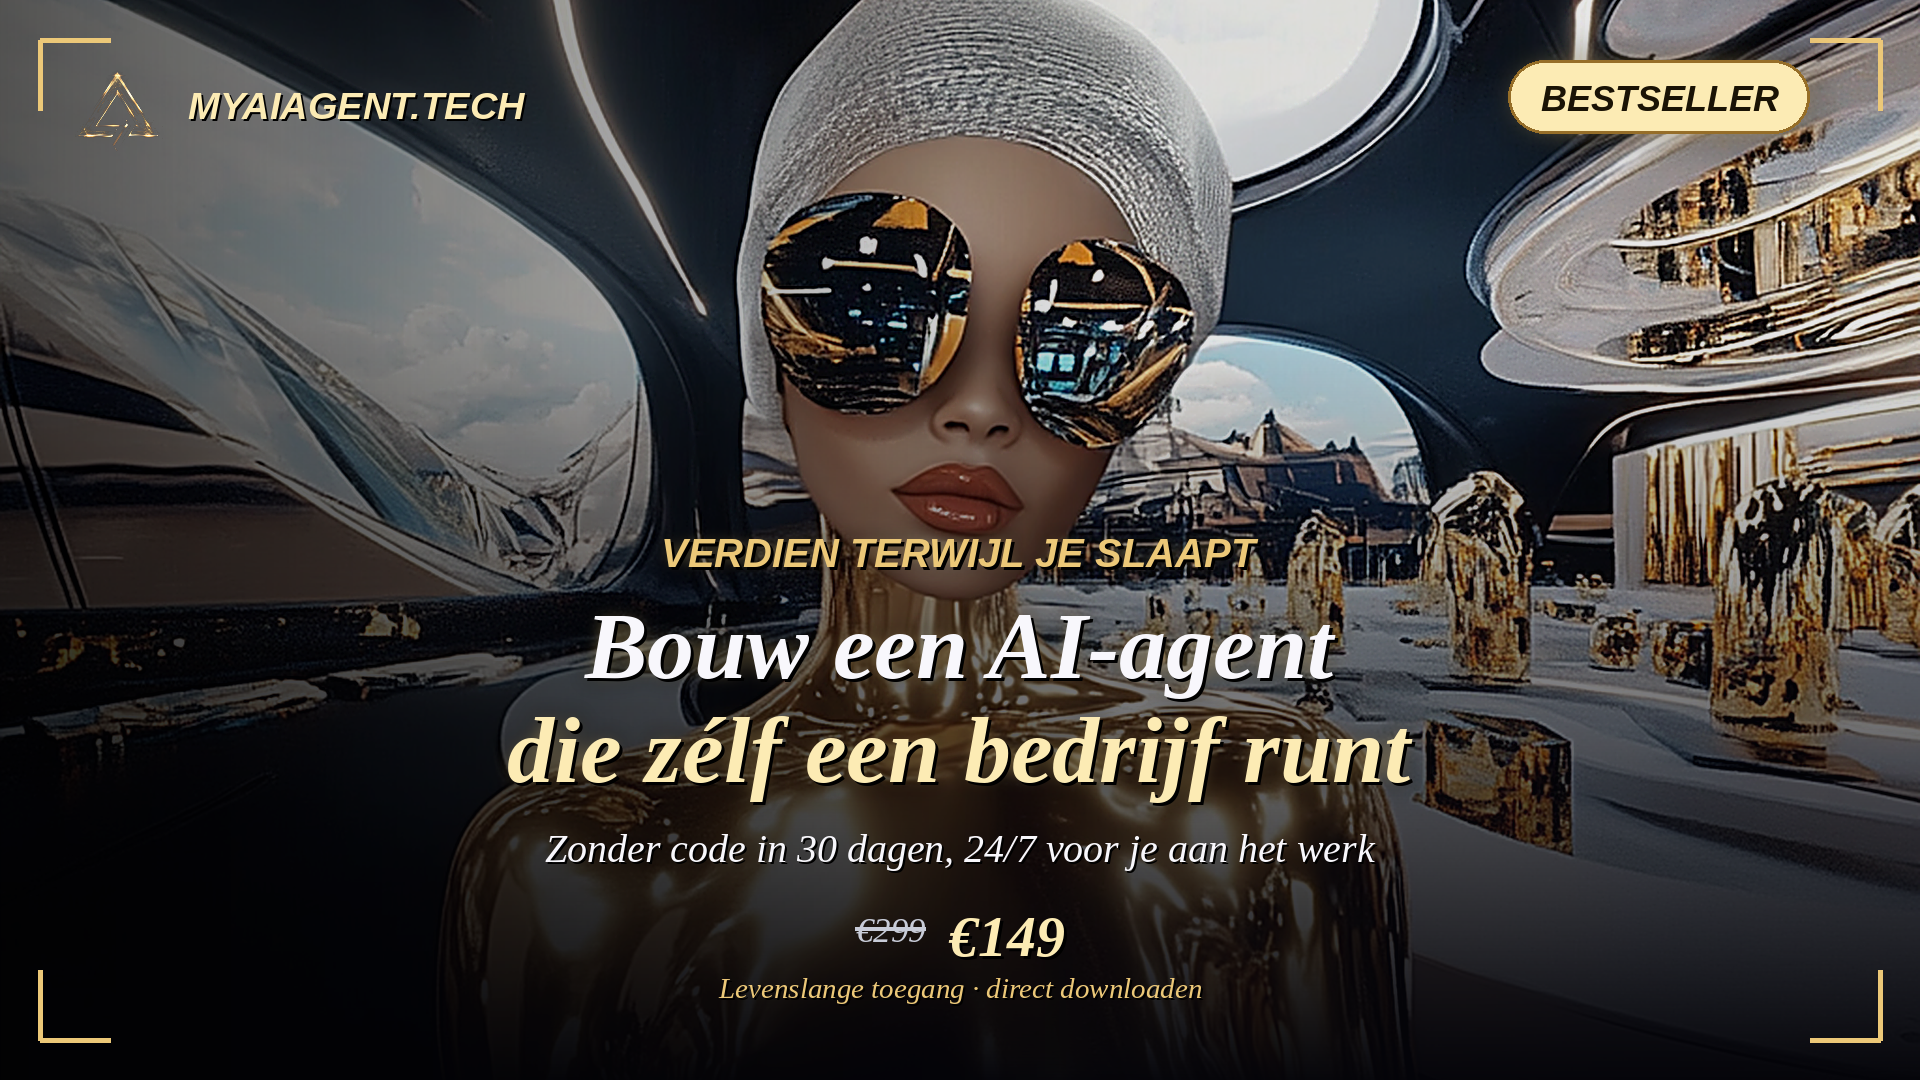
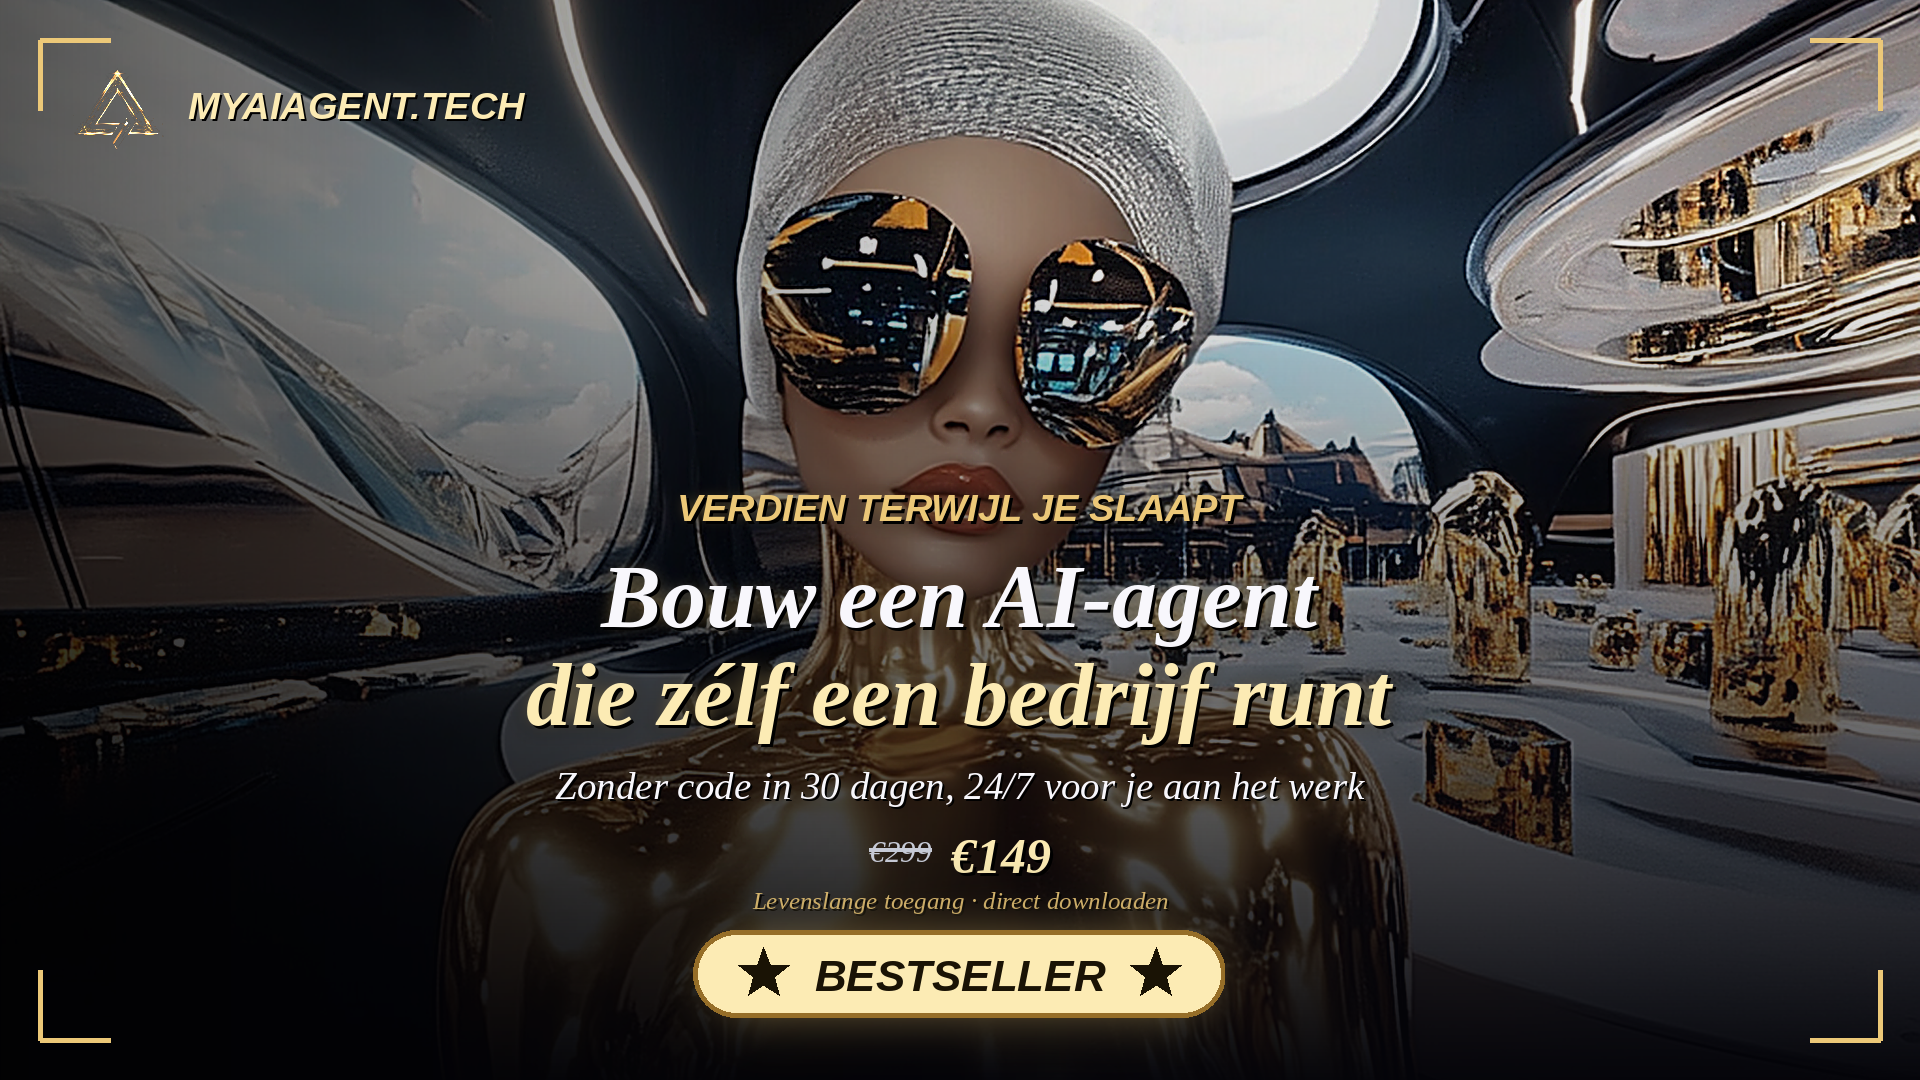
Add EN cover/thumbnail and move BESTSELLER to a bold bottom bar
Generate Dutch and English listing images; replace the top badge with a
prominent gold BESTSELLER bar (flanking stars + glow) placed under all
text on both cover and thumbnail.

https://claude.ai/code/session_01X8zdoAxXmr4GMSK1XA2L1h

Changed region(s): [[0.25, 0.4583, 0.75, 0.9778], [0.7812, 0.0306, 0.9688, 0.1528], [0.0312, 0.0917, 0.0938, 0.1222]]

diff --git a/generate_listing.py b/generate_listing.py
@@ -1,7 +1,7 @@
 #!/usr/bin/env python3
-"""Gumroad cover + thumbnail in high resolution: sharp imagery, crisp text,
-a BESTSELLER badge and emotional, aspirational copy."""
-import os
+"""Gumroad cover + thumbnail, NL and EN. Hi-res, sharp, chic slanted serif,
+emotional viral copy, and a prominent BESTSELLER bar at the bottom (under all text)."""
+import os, math
 from PIL import Image, ImageDraw, ImageFont, ImageFilter
 
 HERE = os.path.dirname(os.path.abspath(__file__))
@@ -11,17 +11,26 @@ FIGURE = UP + "0c0fdae0-mimi20228075__de2a41f026ab4e928aae17021a642fe7.png"
 LOGO = UP + "ad91d89d-My_AI_Agent_Dubai.png"
 FONTS = "/usr/share/fonts/truetype/liberation/"
 def font(n, s): return ImageFont.truetype(FONTS + n, s)
-BOLD, REG = "LiberationSerif-BoldItalic.ttf", "LiberationSerif-Italic.ttf"  # chic, slanted, legible
+BOLD, REG = "LiberationSerif-BoldItalic.ttf", "LiberationSerif-Italic.ttf"
 SANS_BI = "LiberationSans-BoldItalic.ttf"
 GOLD, GOLD_BR, WHITE, DIM, INK = (236, 200, 120), (252, 235, 180), (248, 247, 252), (200, 204, 216), (26, 19, 5)
 
+TXT = {
+    "nl": {"eyebrow": "VERDIEN TERWIJL JE SLAAPT", "t1": "Bouw een AI-agent", "t2": "die zélf een bedrijf runt",
+           "sub": "Zonder code in 30 dagen, 24/7 voor je aan het werk", "psub": "Levenslange toegang · direct downloaden",
+           "thumb": "AI-AGENT CURSUS", "thumb_sub": "Verdien terwijl je slaapt, zonder code",
+           "cover": "gumroad-cover.png", "tb": "gumroad-thumbnail.png"},
+    "en": {"eyebrow": "EARN WHILE YOU SLEEP", "t1": "Build an AI agent", "t2": "that runs a business itself",
+           "sub": "No code, in 30 days, working for you 24/7", "psub": "Lifetime access · instant download",
+           "thumb": "AI-AGENT COURSE", "thumb_sub": "Earn while you sleep, no code",
+           "cover": "gumroad-cover-en.png", "tb": "gumroad-thumbnail-en.png"},
+}
+
 def cover_crop(im, w, h, sharpen=120):
     iw, ih = im.size; s = max(w / iw, h / ih)
-    im = im.resize((round(iw * s), round(ih * s)), Image.LANCZOS)
-    iw, ih = im.size
+    im = im.resize((round(iw * s), round(ih * s)), Image.LANCZOS); iw, ih = im.size
     im = im.crop(((iw - w) // 2, (ih - h) // 2, (iw - w) // 2 + w, (ih - h) // 2 + h))
-    if sharpen: im = im.filter(ImageFilter.UnsharpMask(radius=2.4, percent=sharpen, threshold=2))
-    return im
+    return im.filter(ImageFilter.UnsharpMask(radius=2.4, percent=sharpen, threshold=2)) if sharpen else im
 
 def vgrad(w, h, top_a, bot_a, start=0.0):
     g = Image.new("L", (1, h), 0); px = g.load()
@@ -30,55 +39,8 @@ def vgrad(w, h, top_a, bot_a, start=0.0):
         px[0, y] = int(top_a + (bot_a - top_a) * f)
     blk = Image.new("RGBA", (w, h), (4, 4, 9, 255)); blk.putalpha(g.resize((w, h))); return blk
 
-def text(c, cx, y, s, fnt, fill, center=True, glow=0, left=None, shadow=3):
-    d = ImageDraw.Draw(c); bb = d.textbbox((0, 0), s, font=fnt); tw = bb[2] - bb[0]
-    x = (cx - tw / 2 - bb[0]) if center else left
-    if glow:
-        gl = Image.new("RGBA", c.size, (0, 0, 0, 0))
-        ImageDraw.Draw(gl).text((x, y), s, font=fnt, fill=(236, 200, 120, 220))
-        c.alpha_composite(gl.filter(ImageFilter.GaussianBlur(glow)))
-    if shadow: d.text((x + shadow, y + shadow), s, font=fnt, fill=(0, 0, 0, 170))
-    d.text((x, y), s, font=fnt, fill=fill)
-    return tw
-
-def corners(c, pad, ln, w=4):
-    d = ImageDraw.Draw(c); W, H = c.size; col = (236, 200, 120, 210)
-    for x, y, dx, dy in [(pad, pad, 1, 0), (pad, pad, 0, 1), (W - pad, pad, -1, 0), (W - pad, pad, 0, 1),
-                          (pad, H - pad, 1, 0), (pad, H - pad, 0, -1), (W - pad, H - pad, -1, 0), (W - pad, H - pad, 0, -1)]:
-        d.line([(x, y), (x + dx * ln, y + dy * ln)], fill=col, width=w)
-
-def badge(c, cx, cy, label, fs):
-    d = ImageDraw.Draw(c); f = font(SANS_BI, fs)
-    tw = d.textlength(label, font=f); padx, pady = int(fs * .9), int(fs * .55)
-    w, h = tw + 2 * padx, fs + 2 * pady; x0, y0 = cx - w / 2, cy
-    glow = Image.new("RGBA", c.size, (0, 0, 0, 0))
-    ImageDraw.Draw(glow).rounded_rectangle([x0, y0, x0 + w, y0 + h], radius=h / 2, fill=(236, 200, 120, 150))
-    c.alpha_composite(glow.filter(ImageFilter.GaussianBlur(fs * .5)))
-    grad = Image.new("L", (1, int(h)), 0)
-    for i in range(int(h)): grad.load()[0, i] = int(255 - 70 * (i / h))
-    pill = Image.new("RGBA", (int(w), int(h)), (0, 0, 0, 0))
-    base = Image.new("RGBA", (int(w), int(h)), GOLD_BR + (255,))
-    base.putalpha(grad.resize((int(w), int(h))).point(lambda p: 255))
-    tint = Image.new("RGBA", (int(w), int(h)), (0, 0, 0, 0))
-    ImageDraw.Draw(tint).rounded_rectangle([0, 0, w - 1, h - 1], radius=h / 2, fill=GOLD_BR + (255,), outline=(150, 110, 40, 255), width=3)
-    mask = Image.new("L", (int(w), int(h)), 0)
-    ImageDraw.Draw(mask).rounded_rectangle([0, 0, w - 1, h - 1], radius=h / 2, fill=255)
-    c.paste(tint, (int(x0), int(y0)), mask)
-    d.text((cx - tw / 2, y0 + pady - 1), label, font=f, fill=INK)
-
-def price(c, cx, y, big):
-    d = ImageDraw.Draw(c); fo, fn, fs = font(REG, int(big * .62)), font(BOLD, big), font(REG, int(big * .5))
-    old, new = "€299", "€149"
-    wo, wn = d.textlength(old, font=fo), d.textlength(new, font=fn); gap = int(big * .4); x = cx - (wo + gap + wn) / 2
-    d.text((x, y + int(big * .12)), old, font=fo, fill=DIM)
-    d.line([(x, y + int(big * .42)), (x + wo, y + int(big * .42))], fill=DIM, width=4)
-    d.text((x + wo + gap + 3, y + 3), new, font=fn, fill=(0, 0, 0, 160))
-    d.text((x + wo + gap, y), new, font=fn, fill=GOLD_BR)
-    text(c, cx, y + big + 10, "Levenslange toegang · direct downloaden", fs, GOLD, shadow=2)
-
 def base_bg(w, h):
-    top, bot = (16, 15, 24), (5, 5, 10)
-    g = Image.new("RGB", (1, h)); px = g.load()
+    top, bot = (16, 15, 24), (5, 5, 10); g = Image.new("RGB", (1, h)); px = g.load()
     for y in range(h):
         f = y / h; px[0, y] = tuple(int(top[i] * (1 - f) + bot[i] * f) for i in range(3))
     return g.resize((w, h)).convert("RGBA")
@@ -89,39 +51,84 @@ def logo_masked(size):
     m = lg.convert("L").point(lambda p: 0 if p < 36 else min(255, int((p - 36) * 1.7)))
     return lg, m
 
-def make_cover():
-    W, H = 1920, 1080
+def text(c, cx, y, s, fnt, fill, center=True, glow=0, left=None, shadow=3):
+    d = ImageDraw.Draw(c); bb = d.textbbox((0, 0), s, font=fnt); tw = bb[2] - bb[0]
+    x = (cx - tw / 2 - bb[0]) if center else left
+    if glow:
+        gl = Image.new("RGBA", c.size, (0, 0, 0, 0)); ImageDraw.Draw(gl).text((x, y), s, font=fnt, fill=(236, 200, 120, 220))
+        c.alpha_composite(gl.filter(ImageFilter.GaussianBlur(glow)))
+    if shadow: d.text((x + shadow, y + shadow), s, font=fnt, fill=(0, 0, 0, 170))
+    d.text((x, y), s, font=fnt, fill=fill); return tw
+
+def corners(c, pad, ln, w=4):
+    d = ImageDraw.Draw(c); W, H = c.size; col = (236, 200, 120, 210)
+    for x, y, dx, dy in [(pad, pad, 1, 0), (pad, pad, 0, 1), (W - pad, pad, -1, 0), (W - pad, pad, 0, 1),
+                          (pad, H - pad, 1, 0), (pad, H - pad, 0, -1), (W - pad, H - pad, -1, 0), (W - pad, H - pad, 0, -1)]:
+        d.line([(x, y), (x + dx * ln, y + dy * ln)], fill=col, width=w)
+
+def star(d, cx, cy, r, fill):
+    pts = []
+    for i in range(10):
+        rad = r if i % 2 == 0 else r * 0.42; a = -math.pi / 2 + i * math.pi / 5
+        pts.append((cx + rad * math.cos(a), cy + rad * math.sin(a)))
+    d.polygon(pts, fill=fill)
+
+def bestseller(c, cx, top, fs):
+    """A prominent gold BESTSELLER bar with flanking stars + glow."""
+    d = ImageDraw.Draw(c); f = font(SANS_BI, fs); label = "BESTSELLER"
+    tw = d.textlength(label, font=f); sr = fs * 0.6; gap = fs * 0.55; padx = fs * 1.0; pady = fs * 0.5
+    inner = sr * 2 + gap + tw + gap + sr * 2; w = inner + 2 * padx; h = fs + 2 * pady; x0 = cx - w / 2; y0 = top
+    glow = Image.new("RGBA", c.size, (0, 0, 0, 0))
+    ImageDraw.Draw(glow).rounded_rectangle([x0, y0, x0 + w, y0 + h], radius=h / 2, fill=(236, 200, 120, 200))
+    c.alpha_composite(glow.filter(ImageFilter.GaussianBlur(fs * 0.8)))
+    mask = Image.new("L", (int(w), int(h)), 0); ImageDraw.Draw(mask).rounded_rectangle([0, 0, w - 1, h - 1], radius=h / 2, fill=255)
+    tint = Image.new("RGBA", (int(w), int(h)), GOLD_BR + (255,))
+    ImageDraw.Draw(tint).rounded_rectangle([0, 0, w - 1, h - 1], radius=h / 2, outline=(150, 110, 40, 255), width=5)
+    c.paste(tint, (int(x0), int(y0)), mask)
+    cy = y0 + h / 2
+    d.text((cx - tw / 2, y0 + pady - 1), label, font=f, fill=INK)
+    star(d, cx - tw / 2 - gap - sr, cy, sr, INK); star(d, cx + tw / 2 + gap + sr, cy, sr, INK)
+
+def price(c, cx, y, big, psub):
+    d = ImageDraw.Draw(c); fo, fn, fs = font(REG, int(big * .62)), font(BOLD, big), font(REG, int(big * .5))
+    old, new = "€299", "€149"; wo, wn = d.textlength(old, font=fo), d.textlength(new, font=fn); gap = int(big * .4); x = cx - (wo + gap + wn) / 2
+    d.text((x, y + int(big * .12)), old, font=fo, fill=DIM); d.line([(x, y + int(big * .42)), (x + wo, y + int(big * .42))], fill=DIM, width=4)
+    d.text((x + wo + gap + 3, y + 3), new, font=fn, fill=(0, 0, 0, 160)); d.text((x + wo + gap, y), new, font=fn, fill=GOLD_BR)
+    text(c, cx, y + big + 8, psub, fs, GOLD, shadow=2)
+
+def make_cover(lang):
+    T = TXT[lang]; W, H = 1920, 1080
     c = cover_crop(Image.open(FIGURE).convert("RGB"), W, H).convert("RGBA")
-    c.alpha_composite(vgrad(W, H, 24, 252, start=0.30))
+    c.alpha_composite(vgrad(W, H, 18, 252, start=0.24))
     side = Image.new("RGBA", (W, H), (0, 0, 0, 0)); sg = Image.new("L", (W, 1), 0)
     for x in range(W): sg.load()[x, 0] = int(160 * max(0, 1 - x / (W * 0.6)))
     side.putalpha(sg.resize((W, H))); c.alpha_composite(side)
     corners(c, 40, 70, 5)
-    lg = Image.open(LOGO).convert("RGB").resize((104, 104), Image.LANCZOS)
-    m = lg.convert("L").point(lambda p: 0 if p < 38 else min(255, int((p - 38) * 1.7)))
-    c.paste(lg, (66, 60), m)
+    lg, m = logo_masked(104); c.paste(lg, (66, 58), m)
     text(c, 0, 84, "MYAIAGENT.TECH", font(SANS_BI, 38), GOLD_BR, center=False, left=188, shadow=2)
-    badge(c, W - 260, 60, "BESTSELLER", 36)
-    text(c, W / 2, 530, "VERDIEN TERWIJL JE SLAAPT", font(SANS_BI, 40), GOLD, glow=8)
-    text(c, W / 2, 594, "Bouw een AI-agent", font(BOLD, 94), WHITE, glow=10)
-    text(c, W / 2, 698, "die zélf een bedrijf runt", font(BOLD, 94), GOLD_BR, glow=10)
-    text(c, W / 2, 826, "Zonder code in 30 dagen, 24/7 voor je aan het werk", font(REG, 40), WHITE, shadow=2)
-    price(c, W / 2, 904, 58)
-    c.convert("RGB").save(os.path.join(OUT, "gumroad-cover.png")); print("cover", c.size)
+    text(c, W / 2, 486, T["eyebrow"], font(SANS_BI, 38), GOLD, glow=8)
+    text(c, W / 2, 546, T["t1"], font(BOLD, 90), WHITE, glow=10)
+    text(c, W / 2, 644, T["t2"], font(BOLD, 90), GOLD_BR, glow=10)
+    text(c, W / 2, 764, T["sub"], font(REG, 39), WHITE, shadow=2)
+    price(c, W / 2, 828, 50, T["psub"])
+    bestseller(c, W / 2, 930, 44)
+    c.convert("RGB").save(os.path.join(OUT, T["cover"])); print("cover", lang, c.size)
 
-def make_thumb():
-    W = 1600
+def make_thumb(lang):
+    T = TXT[lang]; W = 1600
     c = base_bg(W, W)
     glow = Image.new("RGBA", (W, W), (0, 0, 0, 0))
-    ImageDraw.Draw(glow).ellipse([W * .5 - 430, 440 - 430, W * .5 + 430, 440 + 430], fill=(236, 200, 120, 85))
+    ImageDraw.Draw(glow).ellipse([W * .5 - 430, 430 - 430, W * .5 + 430, 430 + 430], fill=(236, 200, 120, 85))
     c.alpha_composite(glow.filter(ImageFilter.GaussianBlur(140)))
-    lg, m = logo_masked(860); c.paste(lg, (int(W / 2 - 430), 20), m)   # logo high; clean band below
+    lg, m = logo_masked(840); c.paste(lg, (int(W / 2 - 420), 16), m)
     corners(c, 54, 90, 6)
-    badge(c, W / 2, 66, "BESTSELLER", 44)
-    text(c, W / 2, 980, "AI-AGENT CURSUS", font(BOLD, 128), WHITE, glow=10)
-    text(c, W / 2, 1150, "Verdien terwijl je slaapt, zonder code", font(REG, 46), GOLD_BR, shadow=2)
-    price(c, W / 2, 1270, 64)
-    c.convert("RGB").save(os.path.join(OUT, "gumroad-thumbnail.png")); print("thumb", c.size)
+    text(c, W / 2, 940, T["thumb"], font(BOLD, 124), WHITE, glow=10)
+    text(c, W / 2, 1106, T["thumb_sub"], font(REG, 46), GOLD_BR, shadow=2)
+    price(c, W / 2, 1210, 60, T["psub"])
+    bestseller(c, W / 2, 1338, 50)
+    c.convert("RGB").save(os.path.join(OUT, T["tb"])); print("thumb", lang, c.size)
 
 if __name__ == "__main__":
-    make_cover(); make_thumb(); print("Done.")
+    for lg in ("nl", "en"):
+        make_cover(lg); make_thumb(lg)
+    print("Done.")
